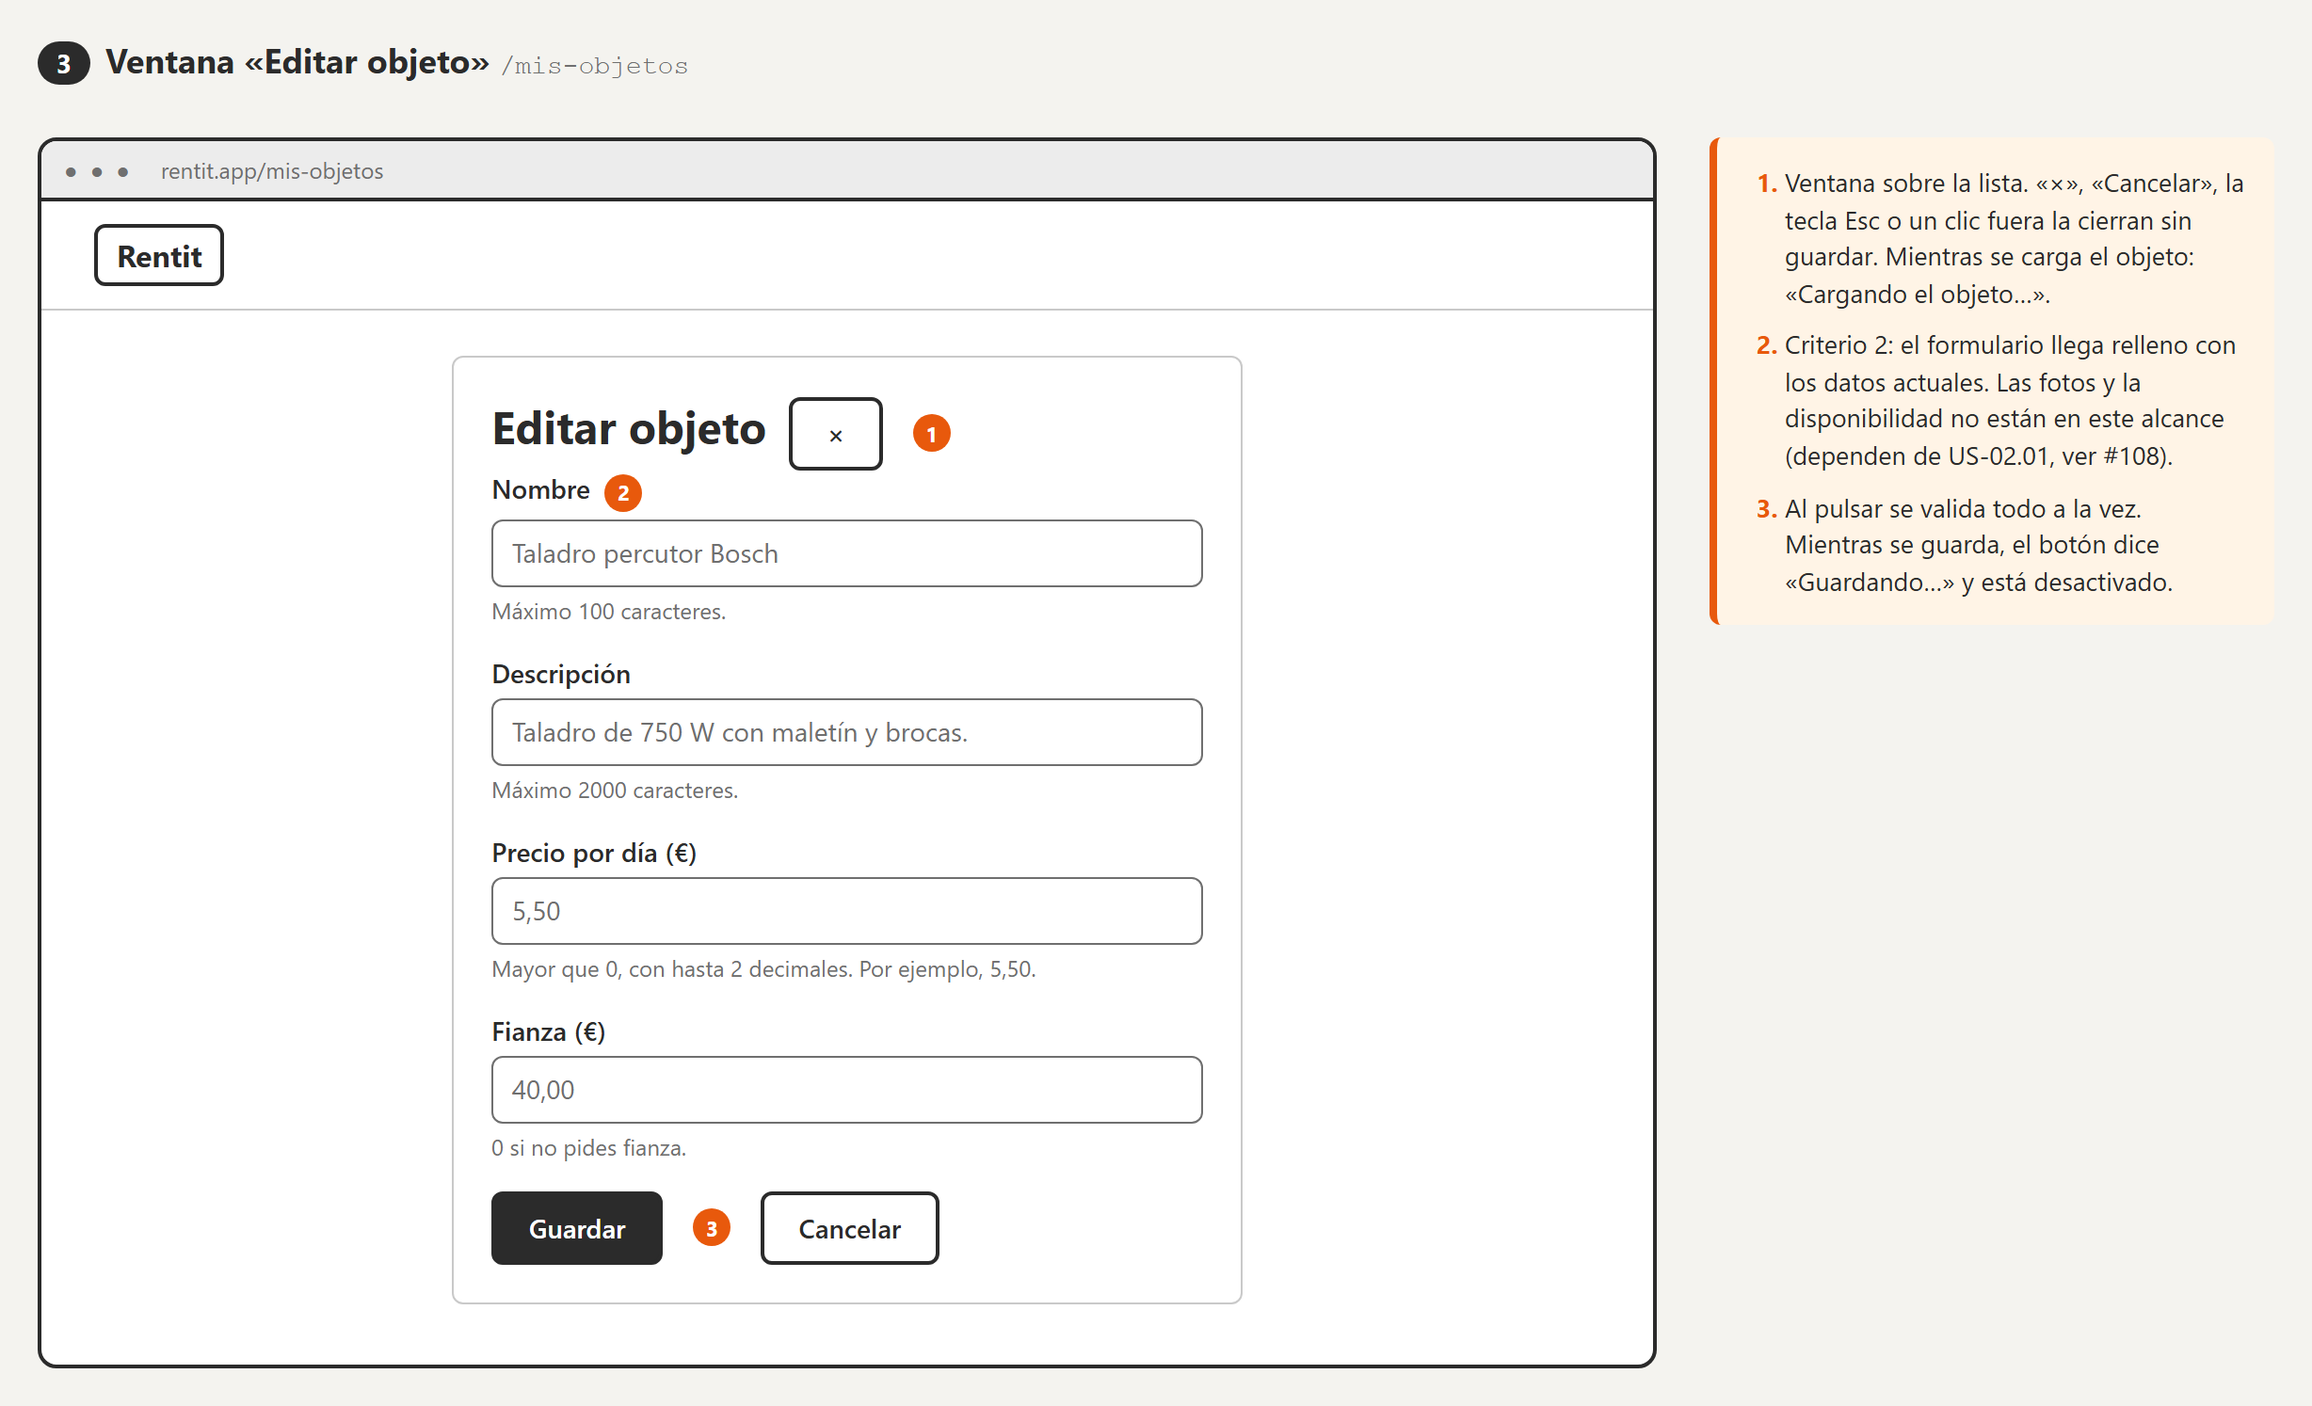
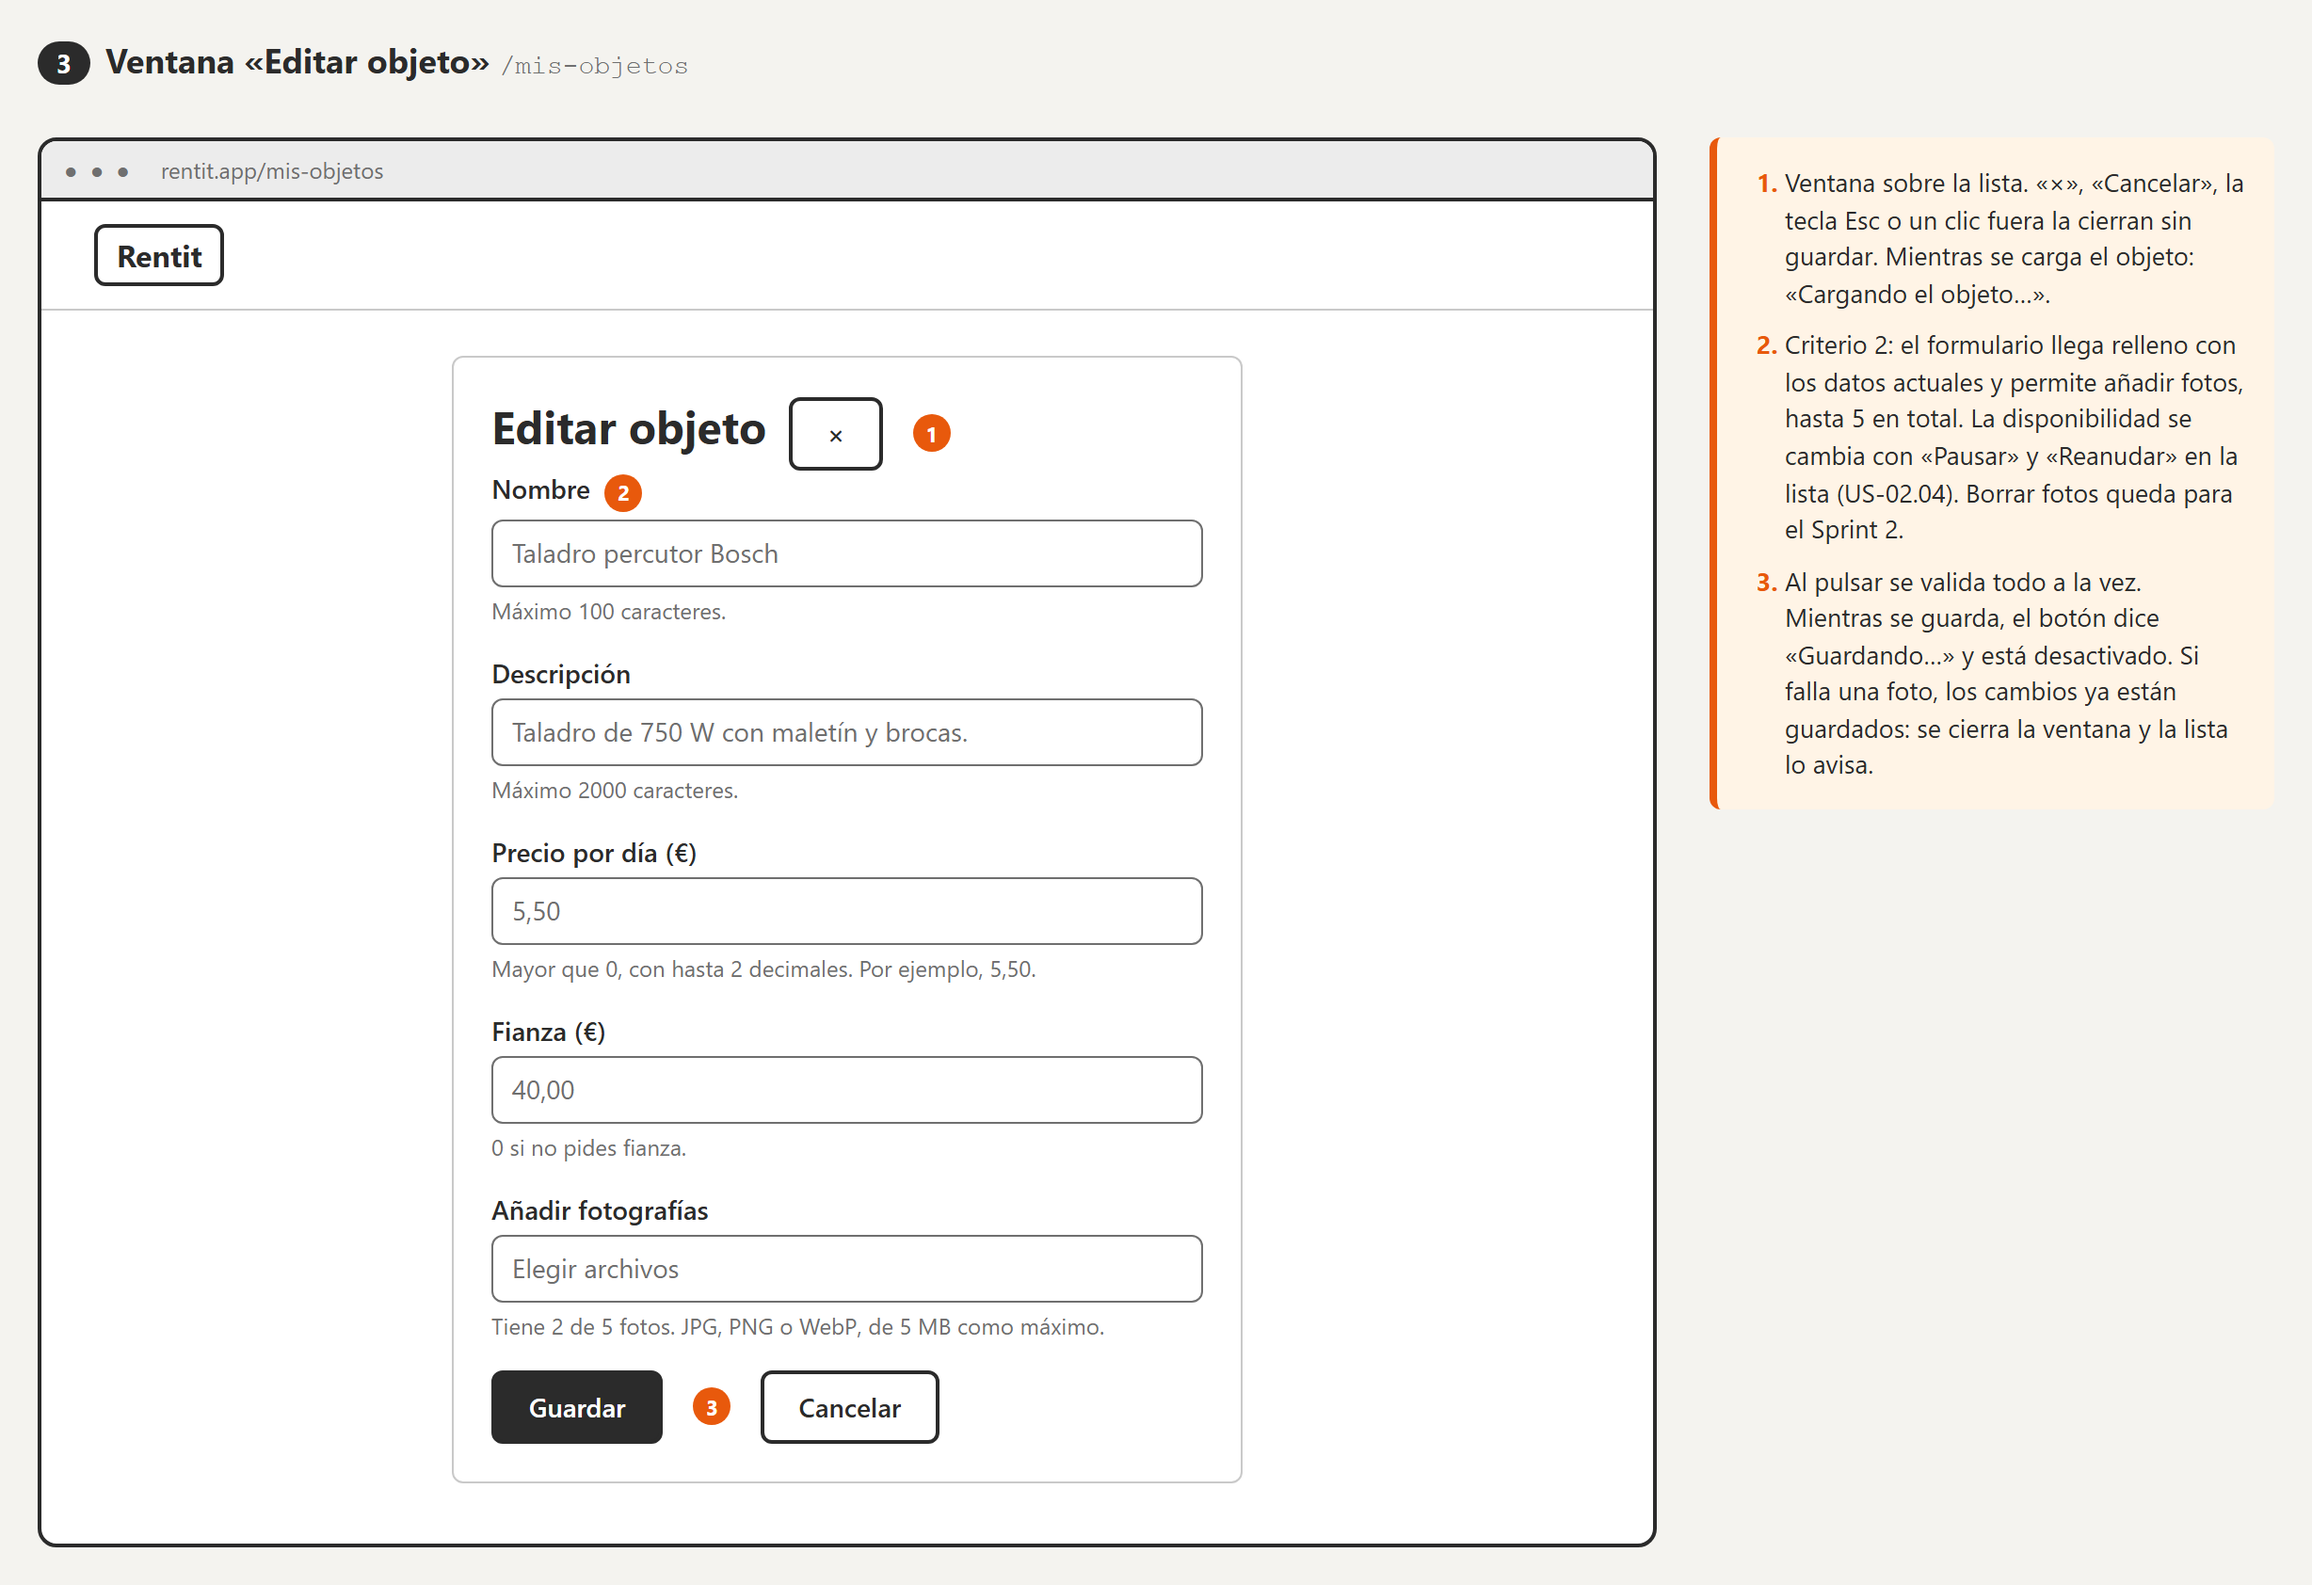
feat(web): añade fotografías desde la ventana de edición (#51)

diff --git a/frontend/src/components/EditItemDialog.tsx b/frontend/src/components/EditItemDialog.tsx
@@ -3,7 +3,12 @@ import { useEffect, useRef, useState, type FormEvent } from 'react';
 import { useAuth } from '../context/useAuth';
 import { ApiError } from '../services/apiClient';
 import { getItem, updateItem, type ItemDetail } from '../services/itemService';
+import { ACCEPTED_PHOTO_TYPES, uploadItemPhoto } from '../services/photoService';
 import { Modal } from './Modal';
+
+// Fotos que se pueden añadir al editar (US-02.02, #51). Borrarlas queda para el Sprint 2.
+const PHOTOS_MAX = 5;
+const PHOTOS_ERROR = 'El campo "fotografías" no es correcto, revísalo.';
 
 type Field = 'title' | 'description' | 'dailyPrice' | 'deposit';
 type FieldErrors = Partial<Record<Field, string>>;
@@ -64,7 +69,7 @@ function validate(values: FormValues): FieldErrors {
 type EditItemDialogProps = {
   id: string;
   onClose: () => void;
-  onSaved: (item: ItemDetail) => void;
+  onSaved: (item: ItemDetail, photosFailed: boolean) => void;
 };
 
 // Formulario de edición de un objeto (#109), en una ventana sobre «Mis objetos».
@@ -123,7 +128,7 @@ type EditItemFormProps = {
   item: ItemDetail;
   token: string;
   onCancel: () => void;
-  onSaved: (item: ItemDetail) => void;
+  onSaved: (item: ItemDetail, photosFailed: boolean) => void;
 };
 
 function EditItemForm({ item, token, onCancel, onSaved }: EditItemFormProps) {
@@ -136,6 +141,8 @@ function EditItemForm({ item, token, onCancel, onSaved }: EditItemFormProps) {
   const [errors, setErrors] = useState<FieldErrors>({});
   const [formError, setFormError] = useState<string | null>(null);
   const [submitting, setSubmitting] = useState(false);
+  const [newPhotos, setNewPhotos] = useState<File[]>([]);
+  const [photosError, setPhotosError] = useState(false);
   const { clearSession } = useAuth();
   const titleRef = useRef<HTMLInputElement>(null);
   const descriptionRef = useRef<HTMLTextAreaElement>(null);
@@ -146,6 +153,17 @@ function EditItemForm({ item, token, onCancel, onSaved }: EditItemFormProps) {
     setValues((current) => ({ ...current, [field]: value }));
     setErrors(({ [field]: _removed, ...rest }) => rest);
     setFormError(null);
+  }
+
+  function addPhotos(files: FileList | null) {
+    const next = [...newPhotos, ...Array.from(files ?? [])];
+    const allowed = ACCEPTED_PHOTO_TYPES.split(',');
+    const invalid =
+      item.photos.length + next.length > PHOTOS_MAX ||
+      next.some((photo) => !allowed.includes(photo.type));
+
+    setPhotosError(invalid);
+    if (!invalid) setNewPhotos(next);
   }
 
   // Muestra los errores y pone el foco en el primer campo que falla. Devuelve si había alguno.
@@ -179,7 +197,21 @@ function EditItemForm({ item, token, onCancel, onSaved }: EditItemFormProps) {
         dailyPrice: parseAmount(values.dailyPrice) ?? 0,
         deposit: parseAmount(values.deposit) ?? 0,
       });
-      onSaved(saved);
+
+      // Los cambios ya están guardados: si falla una foto se avisa, pero no se pierden.
+      let photosFailed = false;
+      for (const photo of newPhotos) {
+        try {
+          await uploadItemPhoto(item.id, photo, token);
+        } catch (photoError) {
+          if (photoError instanceof ApiError && photoError.status === 401) {
+            clearSession();
+            return;
+          }
+          photosFailed = true;
+        }
+      }
+      onSaved(saved, photosFailed);
     } catch (error) {
       if (error instanceof ApiError && error.status === 401) {
         clearSession();
@@ -291,6 +323,46 @@ function EditItemForm({ item, token, onCancel, onSaved }: EditItemFormProps) {
             0 si no pides fianza.
           </p>
           {fieldError('deposit')}
+        </div>
+
+        <div className="form-field">
+          <label htmlFor="item-photos">Añadir fotografías</label>
+          <input
+            id="item-photos"
+            type="file"
+            multiple
+            accept={ACCEPTED_PHOTO_TYPES}
+            onChange={(event) => {
+              addPhotos(event.target.files);
+              event.target.value = '';
+            }}
+            aria-invalid={photosError ? true : undefined}
+            aria-describedby={`item-photos-hint${photosError ? ' item-photos-error' : ''}`}
+          />
+          <p id="item-photos-hint" className="field-hint">
+            Tiene {item.photos.length} de {PHOTOS_MAX} fotos. JPG, PNG o WebP, de 5 MB como máximo.
+          </p>
+          {photosError && (
+            <p id="item-photos-error" className="field-error">
+              {PHOTOS_ERROR}
+            </p>
+          )}
+          {newPhotos.map((photo, index) => (
+            <p key={`${photo.name}-${index}`} className="field-hint">
+              {photo.name}{' '}
+              <button
+                type="button"
+                className="button-link"
+                aria-label={`Quitar ${photo.name}`}
+                onClick={() => {
+                  setNewPhotos((current) => current.filter((_, position) => position !== index));
+                  setPhotosError(false);
+                }}
+              >
+                Quitar
+              </button>
+            </p>
+          ))}
         </div>
 
         <div className="form-actions">

diff --git a/frontend/tests/editItem.test.tsx b/frontend/tests/editItem.test.tsx
@@ -1,7 +1,14 @@
 import { screen, waitFor, within } from '@testing-library/react';
 import userEvent from '@testing-library/user-event';
 import { afterEach, beforeEach, describe, expect, it, vi } from 'vitest';
+import { ApiError } from '../src/services/apiClient';
+import { uploadItemPhoto } from '../src/services/photoService';
 import { renderRoute } from './renderRoute';
+
+vi.mock('../src/services/photoService', async (importOriginal) => {
+  const actual = await importOriginal<typeof import('../src/services/photoService')>();
+  return { ...actual, uploadItemPhoto: vi.fn() };
+});
 
 const SESSION_KEY = 'rentit.session';
 
@@ -28,6 +35,7 @@ const ITEM = {
   dailyPrice: '5.50',
   deposit: '20.00',
   status: 'published',
+  photos: [],
 };
 
 const error = (field: string) => `El campo "${field}" no es correcto, revísalo.`;
@@ -229,5 +237,80 @@ describe('ventana de edición de un objeto (US-02.02, #109)', () => {
     expect(editButton).toHaveFocus();
     expect(screen.queryByRole('status')).not.toBeInTheDocument();
     expect(fetchMock.mock.calls.some(([, init]) => init?.method === 'PATCH')).toBe(false);
+  });
+});
+
+describe('añadir fotos al editar (US-02.02, #51)', () => {
+  const jpeg = (name: string) => new File(['foto'], name, { type: 'image/jpeg' });
+
+  async function openWithPhoto(file: File | File[]) {
+    const opened = await openForm();
+    await opened.user.upload(within(opened.dialog).getByLabelText('Añadir fotografías'), file);
+    return opened;
+  }
+
+  beforeEach(() => {
+    vi.mocked(uploadItemPhoto).mockReset().mockResolvedValue({
+      id: 'photo-1',
+      key: 'objetos/o1/photo-1.webp',
+      order: 1,
+      url: 'https://example.test/photo.webp',
+    });
+  });
+
+  it('guarda los cambios y después sube las fotos elegidas', async () => {
+    const fetchMock = mockItemApi();
+    const file = jpeg('nueva.jpg');
+    const { user, save } = await openWithPhoto(file);
+
+    await user.click(save);
+
+    expect(await screen.findByRole('status')).toHaveTextContent('Los cambios se han guardado.');
+    expect(fetchMock.mock.calls.some(([, init]) => init?.method === 'PATCH')).toBe(true);
+    expect(uploadItemPhoto).toHaveBeenCalledWith('o1', file, 'token-de-prueba');
+  });
+
+  it('sin fotos elegidas no sube nada', async () => {
+    mockItemApi();
+    const { user, save } = await openForm();
+
+    await user.click(save);
+
+    await screen.findByRole('status');
+    expect(uploadItemPhoto).not.toHaveBeenCalled();
+  });
+
+  it('si falla una foto, cierra la ventana y avisa de que los cambios sí se han guardado', async () => {
+    mockItemApi();
+    vi.mocked(uploadItemPhoto).mockRejectedValue(new ApiError(503, 'Sin almacenamiento.'));
+    const { user, save } = await openWithPhoto(jpeg('nueva.jpg'));
+
+    await user.click(save);
+
+    expect(await screen.findByRole('alert')).toHaveTextContent(
+      'Los cambios se han guardado, pero alguna foto no se ha podido subir.',
+    );
+    expect(screen.queryByRole('dialog', { name: 'Editar objeto' })).not.toBeInTheDocument();
+  });
+
+  it('no deja pasar de 5 fotos contando las que ya tiene', async () => {
+    const photos = [1, 2, 3, 4].map((n) => ({ id: `p${n}`, url: `https://example.test/${n}` }));
+    mockItemApi({ onLoad: () => Response.json({ ...ITEM, photos }) });
+    const { dialog } = await openWithPhoto([jpeg('a.jpg'), jpeg('b.jpg')]);
+
+    expect(within(dialog).getByText(error('fotografías'))).toBeInTheDocument();
+    expect(within(dialog).getByText(/Tiene 4 de 5 fotos/)).toBeInTheDocument();
+    expect(within(dialog).queryByText(/a\.jpg/)).not.toBeInTheDocument();
+  });
+
+  it('permite quitar una foto elegida antes de guardar', async () => {
+    mockItemApi();
+    const { user, save, dialog } = await openWithPhoto(jpeg('nueva.jpg'));
+
+    await user.click(within(dialog).getByRole('button', { name: 'Quitar nueva.jpg' }));
+    await user.click(save);
+
+    await screen.findByRole('status');
+    expect(uploadItemPhoto).not.toHaveBeenCalled();
   });
 });

diff --git a/docs/wireframes/US-02.02-editar-objeto/index.html b/docs/wireframes/US-02.02-editar-objeto/index.html
@@ -143,6 +143,11 @@
                 <div class="wf-input">40,00</div>
                 <p class="wf-ayuda">0 si no pides fianza.</p>
               </div>
+              <div class="wf-campo">
+                <label>Añadir fotografías</label>
+                <div class="wf-input">Elegir archivos</div>
+                <p class="wf-ayuda">Tiene 2 de 5 fotos. JPG, PNG o WebP, de 5 MB como máximo.</p>
+              </div>
               <div class="wf-fila">
                 <span class="wf-boton">Guardar</span><span class="wf-marca">3</span>
                 <span class="wf-boton wf-secundario">Cancelar</span>
@@ -154,10 +159,13 @@
       <ol class="wf-notas">
         <li>Ventana sobre la lista. «×», «Cancelar», la tecla Esc o un clic fuera la cierran sin guardar. Mientras se carga el objeto: «Cargando el objeto…».</li>
         <li>
-          Criterio 2: el formulario llega relleno con los datos actuales. Las fotos y la disponibilidad no están en este
-          alcance (dependen de US-02.01, ver #108).
+          Criterio 2: el formulario llega relleno con los datos actuales y permite añadir fotos, hasta 5 en total. La
+          disponibilidad se cambia con «Pausar» y «Reanudar» en la lista (US-02.04). Borrar fotos queda para el Sprint 2.
         </li>
-        <li>Al pulsar se valida todo a la vez. Mientras se guarda, el botón dice «Guardando…» y está desactivado.</li>
+        <li>
+          Al pulsar se valida todo a la vez. Mientras se guarda, el botón dice «Guardando…» y está desactivado. Si falla
+          una foto, los cambios ya están guardados: se cierra la ventana y la lista lo avisa.
+        </li>
       </ol>
     </section>
 

diff --git a/frontend/src/pages/MyItemsPage.tsx b/frontend/src/pages/MyItemsPage.tsx
@@ -87,7 +87,7 @@ export function MyItemsPage() {
   }
 
   // Actualiza la fila con lo guardado, sin volver a pedir toda la lista.
-  function handleSaved(saved: ItemDetail) {
+  function handleSaved(saved: ItemDetail, photosFailed: boolean) {
     setItems(
       (current) =>
         current?.map((item) =>
@@ -97,7 +97,13 @@ export function MyItemsPage() {
         ) ?? null,
     );
     setEditingId(null);
-    setMessage('Los cambios se han guardado.');
+    if (photosFailed) {
+      setActionError(
+        'Los cambios se han guardado, pero alguna foto no se ha podido subir. Vuelve a «Editar» para intentarlo otra vez.',
+      );
+    } else {
+      setMessage('Los cambios se han guardado.');
+    }
   }
 
   // Pausar y reanudar (#113) se pueden deshacer, así que se aplican sin ventana de confirmación.

diff --git a/docs/testing.md b/docs/testing.md
@@ -163,6 +163,7 @@ Se edita la «Hidrolimpiadora Kärcher» de ana (8 €/día, fianza 50 €), que
 | CP-EDI-03 | 3. Guardar con valores válidos | Como CP-EDI-01 | 1. Cambiar el nombre y el precio a `11,50` 2. «Guardar» 3. Recargar | Tras recargar, la lista y el formulario muestran el nombre y el precio nuevos | `editar-objeto.spec.ts` · criterio 3 |
 | CP-EDI-04 | 4. Campo erróneo | Como CP-EDI-01 | 1. Precio `-5` 2. «Guardar» 3. Recargar | Sale el error del precio con el campo marcado. Tras recargar, sigue a 8 € | `editar-objeto.spec.ts` · criterio 4 |
 | CP-EDI-05 | (Permisos) No propietario | Sesión de bruno | 1. «Mis objetos» 2. `PATCH /api/objetos/<id>` con el token de bruno | La hidrolimpiadora no aparece en sus objetos y la API responde `403` | `editar-objeto.spec.ts` · permisos |
+| CP-EDI-06 | 2. Añadir fotografías | Como CP-EDI-01, con un almacenamiento S3 configurado | 1. Elegir una foto en «Añadir fotografías» 2. «Guardar» | Sale «Los cambios se han guardado.» y la foto queda en el objeto | Manual: el CI no tiene almacenamiento. Tests de componente en `editItem.test.tsx` |
 
 ### US-04.02 Consultar mis solicitudes (#61) · S1-T38 (#176)
 
